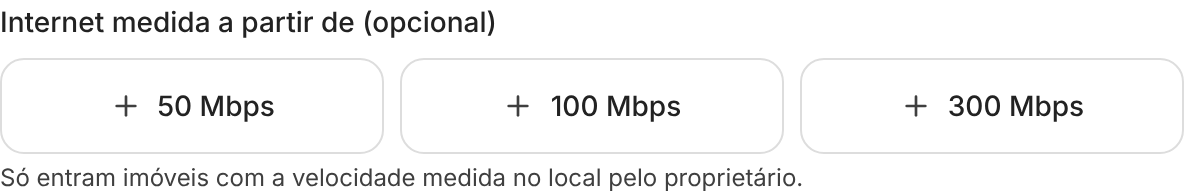
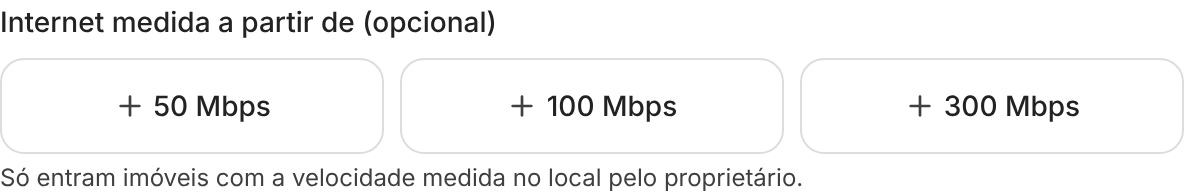
E715 (O4): 13 px abaixo de sm para '300 Mbps' caber também a 360 px
Claude-Session: https://claude.ai/code/session_01PtgQcJTujjKwKoFgHtC45J

Changed region(s): [[0.75, 0.4948, 0.9375, 0.6186], [0.4062, 0.4948, 0.5938, 0.6186], [0.0938, 0.4948, 0.25, 0.6186]]

diff --git a/src/app/(public)/pedidos/novo/page.tsx b/src/app/(public)/pedidos/novo/page.tsx
@@ -723,7 +723,7 @@ function PedidoForm() {
             <span className="mb-2 block text-sm font-medium text-ink" id="pedido-internet-rotulo">Internet medida a partir de (opcional)</span>
             <div className="grid grid-cols-3 gap-2" role="radiogroup" aria-labelledby="pedido-internet-rotulo" data-testid="pedido-internet">
               {CHIPS_INTERNET.map((v) => (
-                <BotaoMarca key={v} ativo={internetMin === v} onClick={() => setInternetMin((a) => (a === v ? null : v))} icone={Plus} testid={`pedido-internet-${v}`} className="gap-1 px-2">
+                <BotaoMarca key={v} ativo={internetMin === v} onClick={() => setInternetMin((a) => (a === v ? null : v))} icone={Plus} testid={`pedido-internet-${v}`} className="gap-1 px-2 text-[13px] sm:text-sm">
                   {rotuloMbps(v)}
                 </BotaoMarca>
               ))}

diff --git a/src/lib/busca/e715-o4-mbps-sem-quebra.test.ts b/src/lib/busca/e715-o4-mbps-sem-quebra.test.ts
@@ -22,3 +22,9 @@ test("E715 O4 — os botões do pedido novo e do filtro do celular usam o rótul
     assert.doesNotMatch(s, /\{v\} Mbps/, f);
   }
 });
+
+test("E715 O4 — no pedido novo, o botão de internet tem folga para '300 Mbps' numa linha (até 360 px)", () => {
+  // Medido no laboratório: com px-3/gap-2/14 px, "300 Mbps" passava 2 px do espaço a 360 e 390 px.
+  const s = readFileSync("src/app/(public)/pedidos/novo/page.tsx", "utf8");
+  assert.match(s, /testid=\{`pedido-internet-\$\{v\}`\} className="gap-1 px-2 text-\[13px\] sm:text-sm">/);
+});
